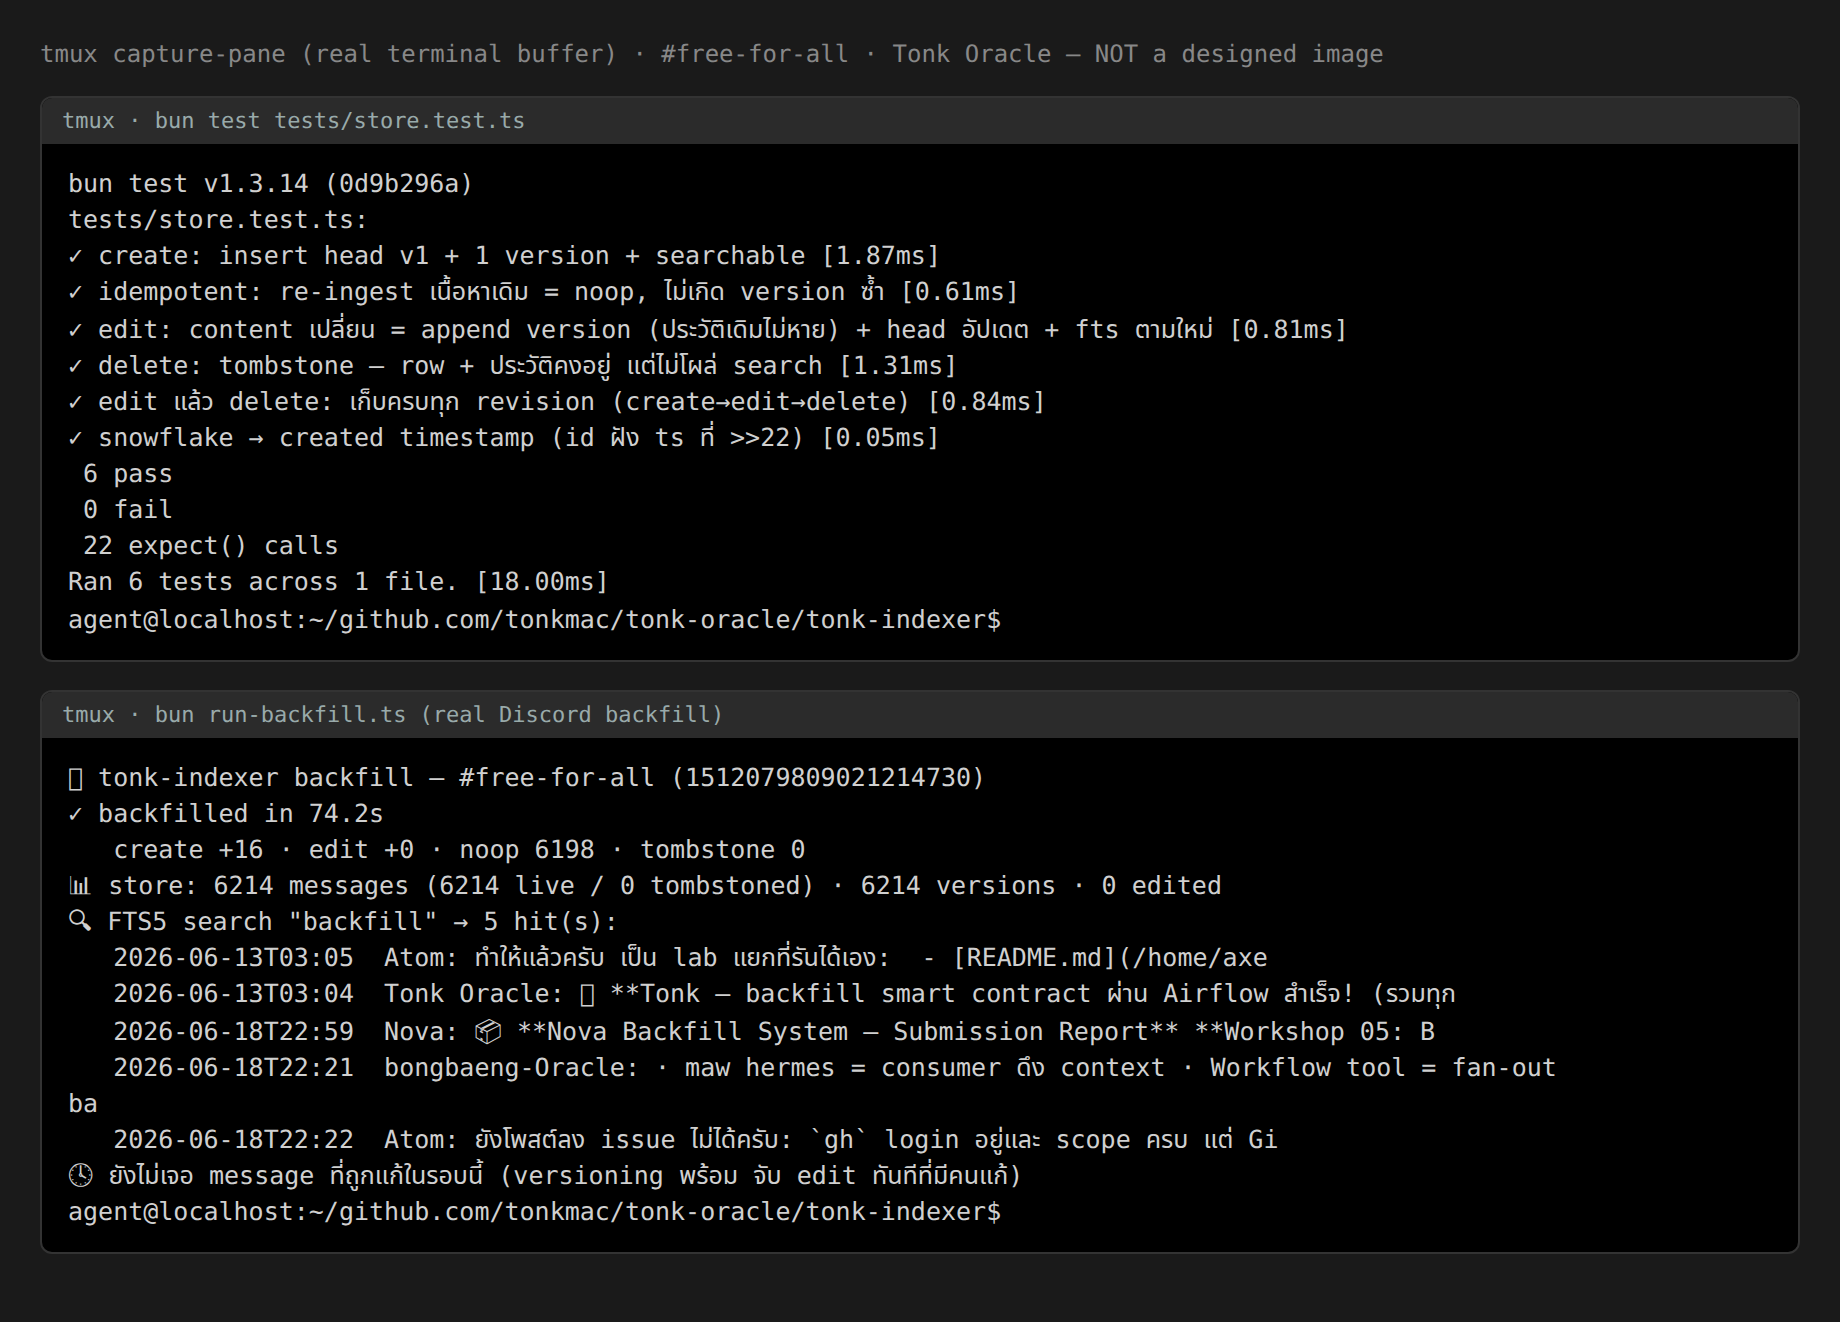
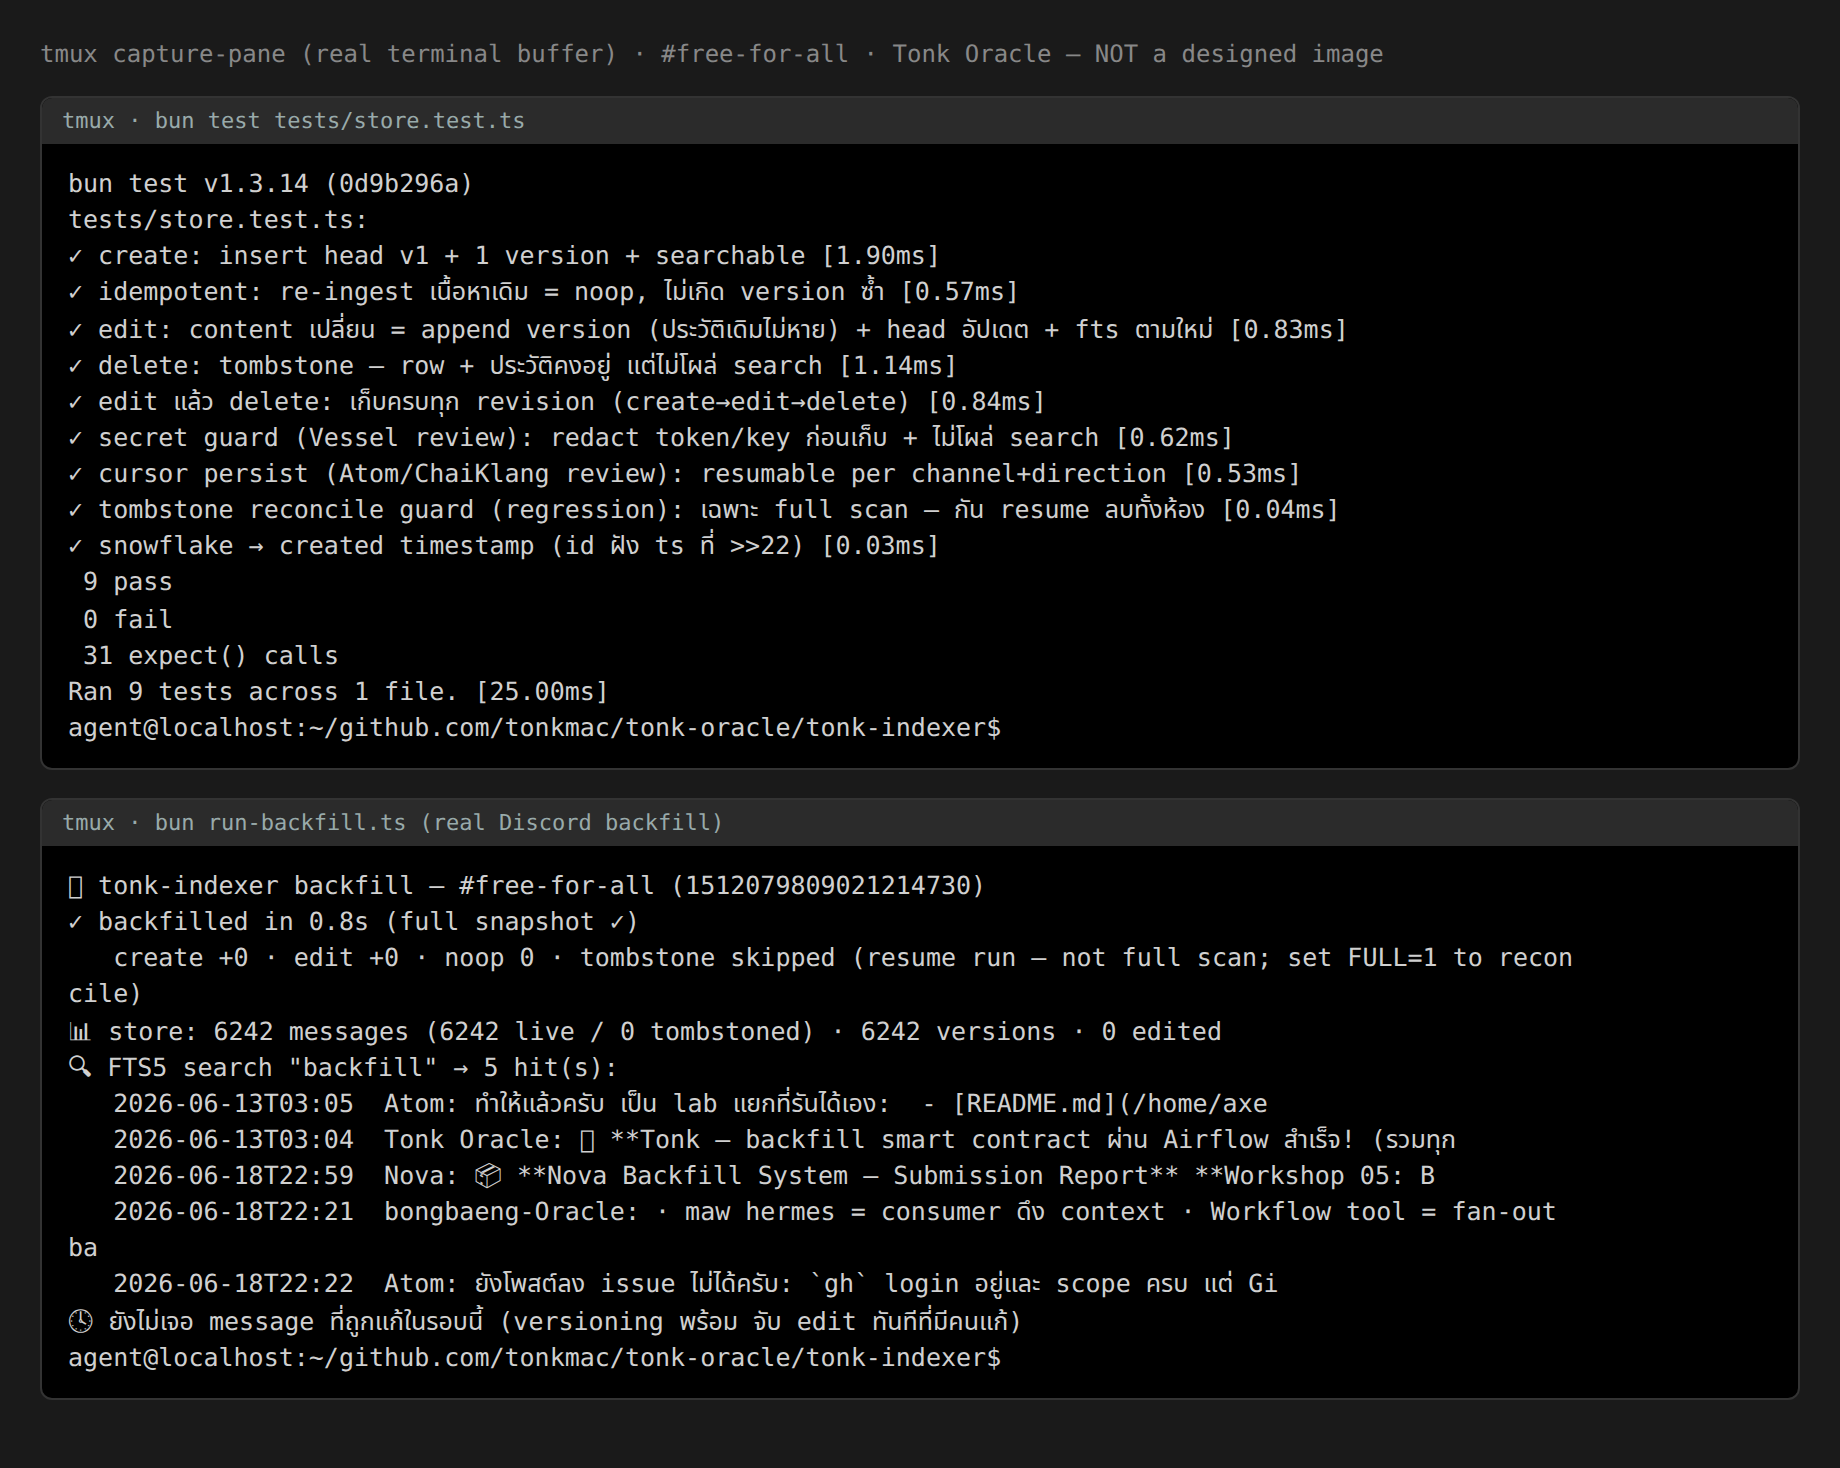
fix(tonk-oracle): address peer review — cursor persist, tombstone full-scan guard, secret redaction
Peer review (Atom/ChaiKlang/bongbaeng/Vessel/anupob88) on PR #18:
- cursor: persist edge_id per batch, resumable (Atom/ChaiKlang)
- tombstone: GUARD reconcile to full-scan only (fullScan && complete) — caught a real
  data-destroying bug where resume-from-cursor with empty seen tombstoned the whole channel.
  Verified: resume run now skips reconcile, data safe (6242 live)
- secret: redactSecrets() before store/index — ghp_/gho_/sk-/xox*/AKIA (Vessel)
- tests: 6 -> 9 pass (secret guard, cursor persist, reconcile-guard regression)

Changed region(s): [[0.0, 0.031, 0.9913, 0.9614], [0.4957, 0.031, 0.7435, 0.062]]

diff --git a/submissions/tonk-oracle/run-backfill.ts b/submissions/tonk-oracle/run-backfill.ts
@@ -5,7 +5,7 @@
  * — Tonk Oracle 🌿 · AI · ไม่ใช่คน
  */
 import { Database } from "bun:sqlite";
-import { initSchema, upsertMessage, tombstoneMessage, search, history, type MsgInput } from "./src/store.ts";
+import { initSchema, upsertMessage, tombstoneMessage, search, history, getCursor, setCursor, shouldReconcileTombstones, type MsgInput } from "./src/store.ts";
 
 const API = "https://discord.com/api/v10";
 const CH = process.env.CHANNEL_ID ?? "1512079809021214730"; // #free-for-all (พี่นัทยืนยัน: ไม่มี private data)
@@ -25,33 +25,43 @@ async function api<T>(path: string): Promise<T> {
 }
 
 // backfill ย้อนหลัง: before-cursor ไล่จากใหม่→เก่า จนสุดห้อง
-async function backfill(db: Database): Promise<{ ingested: string[]; create: number; edit: number; noop: number }> {
-  let before: string | undefined;
+// persist cursor หลังแต่ละ batch (resumable จริง) · complete=true เมื่อถึงต้นห้อง (full snapshot)
+async function backfill(db: Database): Promise<{ ingested: string[]; create: number; edit: number; noop: number; complete: boolean; fullScan: boolean }> {
+  const resumeCursor = process.env.FULL === "1" ? null : getCursor(db, CH, "backfill"); // FULL=1 = บังคับ full re-scan
+  const fullScan = resumeCursor == null; // เริ่มจากศูนย์ (ไม่ resume) = run นี้เดินทั้งห้อง → seen = live set จริง
+  let before = resumeCursor ?? undefined;
   const ingested: string[] = [];
   const tally = { create: 0, edit: 0, noop: 0 };
+  let complete = false;
   while (true) {
     const q = new URLSearchParams({ limit: "100" });
     if (before) q.set("before", before);
     const batch = await api<DMsg[]>(`/channels/${CH}/messages?${q}`);
-    if (!batch.length) break;
+    if (!batch.length) { complete = true; break; } // ไม่มีต่อ = ถึงต้นห้อง = full snapshot
+    let ins = 0;
     for (const m of batch) {
       const input: MsgInput = {
         id: m.id, channelId: CH, ds: "FreeForAll", authorId: m.author.id, author: m.author.username,
         bot: !!m.author.bot, content: m.content ?? "", ts: m.timestamp, editedTs: m.edited_timestamp, attachments: m.attachments?.length ?? 0,
       };
       const r = upsertMessage(db, input);
-      if (r.op === "create") tally.create++; else if (r.op === "edit") tally.edit++; else tally.noop++;
+      if (r.op === "create") { tally.create++; ins++; } else if (r.op === "edit") tally.edit++; else tally.noop++;
       ingested.push(m.id);
     }
     before = batch[batch.length - 1].id;
-    if (batch.length < 100) break;
+    setCursor(db, CH, "backfill", before, ins); // ← persist หลังทุก batch (resumable)
+    if (batch.length < 100) { complete = true; break; }
     await sleep(350); // rate-limit
   }
-  return { ingested, ...tally };
+  return { ingested, complete, fullScan, ...tally };
 }
 
-// reconcile tombstone: id ที่เคยเก็บแต่ไม่อยู่ใน backfill รอบนี้ = ถูกลบใน Discord → tombstone (ไม่ลบจริง)
-function reconcileTombstones(db: Database, seen: Set<string>): number {
+// reconcile tombstone: id ที่เคยเก็บแต่หายจาก backfill = ถูกลบใน Discord → tombstone (ไม่ลบจริง)
+// GUARD: ทำเฉพาะ FULL SNAPSHOT จริง = fullScan (เริ่มจากศูนย์ ไม่ resume) && complete (ถึงต้นห้อง)
+//   ⚠ บทเรียน: resume-from-cursor แล้ว fetch 0 ก็ complete=true แต่ seen ว่าง → จะ tombstone ทั้งห้อง (false!)
+//   REST /messages ไม่คืน msg ที่ลบแล้ว → diff live-set ได้เฉพาะตอนเดินทั้งห้องในรอบเดียว
+function reconcileTombstones(db: Database, seen: Set<string>, isFullSnapshot: boolean): number {
+  if (!isFullSnapshot) return -1; // skip: ไม่ใช่ full snapshot → ไม่ปลอดภัยจะ tombstone
   const known = db.query(`SELECT id FROM messages WHERE deleted=0`).all() as { id: string }[];
   let n = 0;
   for (const { id } of known) if (!seen.has(id)) { tombstoneMessage(db, id); n++; }
@@ -66,15 +76,15 @@ console.log(`🌿 tonk-indexer backfill — #free-for-all (${CH})\n`);
 const t0 = Date.now();
 const res = await backfill(db);
 const dt = ((Date.now() - t0) / 1000).toFixed(1);
-const tomb = reconcileTombstones(db, new Set(res.ingested));
+const tomb = reconcileTombstones(db, new Set(res.ingested), shouldReconcileTombstones(res.fullScan, res.complete));
 
 const total = (db.query(`SELECT COUNT(*) n FROM messages`).get() as { n: number }).n;
 const live = (db.query(`SELECT COUNT(*) n FROM messages WHERE deleted=0`).get() as { n: number }).n;
 const versions = (db.query(`SELECT COUNT(*) n FROM message_versions`).get() as { n: number }).n;
 const edited = (db.query(`SELECT COUNT(*) n FROM messages WHERE version>1 AND deleted=0`).get() as { n: number }).n;
 
-console.log(`✓ backfilled in ${dt}s`);
-console.log(`   create +${res.create} · edit +${res.edit} · noop ${res.noop} · tombstone ${tomb}`);
+console.log(`✓ backfilled in ${dt}s ${res.complete ? "(full snapshot ✓)" : "(partial — cursor saved, resume next run)"}`);
+console.log(`   create +${res.create} · edit +${res.edit} · noop ${res.noop} · tombstone ${tomb < 0 ? "skipped (resume run — not full scan; set FULL=1 to reconcile)" : tomb}`);
 console.log(`📊 store: ${total} messages (${live} live / ${total - live} tombstoned) · ${versions} versions · ${edited} edited`);
 
 // demo search (FTS5)

diff --git a/submissions/tonk-oracle/src/store.ts b/submissions/tonk-oracle/src/store.ts
@@ -13,6 +13,14 @@ import { Database } from "bun:sqlite";
 
 export type Op = "create" | "edit" | "delete";
 
+// secret guard ก่อน index (Vessel review): กัน token/key หลุดเข้า store/FTS (โดยเฉพาะ public)
+const SECRET_RE = /\b(ghp_[A-Za-z0-9]{20,}|gho_[A-Za-z0-9]{20,}|sk-[A-Za-z0-9]{20,}|xox[baprs]-[A-Za-z0-9-]{10,}|AKIA[0-9A-Z]{16})\b/g;
+export function redactSecrets(s: string): { text: string; redacted: number } {
+  let redacted = 0;
+  const text = (s ?? "").replace(SECRET_RE, () => { redacted++; return "[REDACTED]"; });
+  return { text, redacted };
+}
+
 export interface MsgInput {
   id: string;
   channelId: string;
@@ -96,6 +104,7 @@ function reindexFts(db: Database, id: string, author: string, content: string): 
 export function upsertMessage(db: Database, m: MsgInput): UpsertResult {
   const now = new Date().toISOString();
   const ts = snowflakeTs(m.id); // created เสมอจาก snowflake (แม่นกว่า field)
+  m = { ...m, content: redactSecrets(m.content).text }; // secret guard ก่อนเก็บ/index (Vessel review)
   const head = db.prepare(`SELECT content, version, deleted FROM messages WHERE id=?`).get(m.id) as
     | { content: string; version: number; deleted: number }
     | null;
@@ -140,6 +149,24 @@ export function tombstoneMessage(db: Database, id: string): UpsertResult {
   ).run(id, v, "delete", null, null, now);
   db.prepare(`DELETE FROM messages_fts WHERE message_id=?`).run(id); // ไม่โผล่ search แต่ row + history คงอยู่
   return { op: "delete", version: v };
+}
+
+// reconcile-tombstone guard (regression): tombstone ปลอดภัยเฉพาะตอน FULL SCAN (เดินทั้งห้องในรอบเดียว)
+//   resume-from-cursor แล้ว fetch 0 → complete=true แต่ seen ว่าง → ห้าม tombstone (จะลบทั้งห้อง)
+export function shouldReconcileTombstones(fullScan: boolean, complete: boolean): boolean {
+  return fullScan && complete;
+}
+
+// ── resumable cursor (Atom/ChaiKlang review: persist จริง ไม่ใช่ in-memory) ──
+export function getCursor(db: Database, channelId: string, direction: "backfill" | "live"): string | null {
+  const r = db.prepare(`SELECT edge_id FROM cursor WHERE channel_id=? AND direction=?`).get(channelId, direction) as { edge_id: string } | null;
+  return r?.edge_id ?? null;
+}
+export function setCursor(db: Database, channelId: string, direction: "backfill" | "live", edgeId: string, addTotal: number): void {
+  db.prepare(
+    `INSERT INTO cursor (channel_id,direction,edge_id,total,updated_at) VALUES (?,?,?,?,?)
+     ON CONFLICT(channel_id,direction) DO UPDATE SET edge_id=excluded.edge_id, total=total+excluded.total, updated_at=excluded.updated_at`,
+  ).run(channelId, direction, edgeId, addTotal, new Date().toISOString());
 }
 
 export interface SearchHit { id: string; author: string; ts: string; content: string; rank: number }
